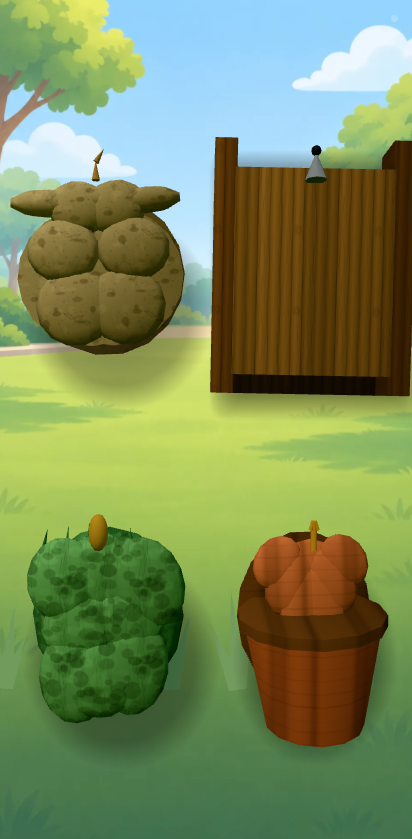
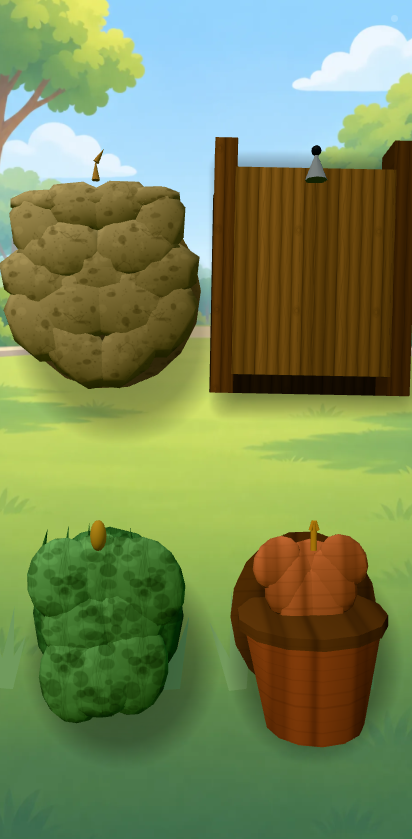
サイクル27: 岩の「塞ぐ板」をやめ、球を増やして隙間を埋める
判定が3回続けて「次に直すべき1件」に挙げたのが、岩の中にある平らな板。
球より奥にあるその板が、空を背に四角い面としてはっきり見えていた。
角丸にしても、楕円にしても、大きさを詰めても消えなかった
（詰めると今度は遮蔽が漏れる）。

**球の数で塞ぐことにした。** 3個 → 8個に増やして、隙間の位置に重ねる。
塞ぐものが球なら、はみ出しても岩に見える。
8個を1つのジオメトリに結合したので draw call はむしろ baseline より減った
（そと 65 → 59、きょうりゅう 59 → 53）。分割は (8,4) まで落とす
（(9,6) では三角形が baseline 比 +26% になり、上限 +10% を超えた）。

**このとき、単体テストが1件落ちていたのを見落としていたことも分かった。**
`npx vitest run | tail -3` では要約行が隠れる。サイクル16（岩の内側の板を
楕円にした回）から うみ の いわ で 8点の漏れが出ていた。
CLAUDE.md「球だけで隠れ場所を作ると必ず隙間ができる」を、
板ではなく球の数で解いたことで、漏れも同時に消えた。

npm run verify（型検査・単体254件・e2e 23件）すべて通過。
描画量は baseline 比 三角形 +8.7% 以内・draw call は増えていない。

Claude-Session: https://claude.ai/code/session_01CKSSptub2R8nw4GNxWzQ6d

diff --git a/src/peekaboo/SpotShapes.ts b/src/peekaboo/SpotShapes.ts
@@ -305,7 +305,14 @@ function fitBackPlates(shape: SpotShape, kind: SpotKind): void {
   // きのほら は幹の柱が H×2.0 あって、背板がその高さに合わせて伸び、
   // 板塀の上に黒いドームが乗って見えた（2026-09-07）
   const top = Math.min(_backBox.max.y, shape.coverTopY);
-  const wantW = _backBox.max.x - _backBox.min.x;
+  // **動物の幅を下限にする。**
+  // 見えている本体だけに合わせると、本体を細くしたときに背板まで縮んで、
+  // **隠れている動物が背板の左右からはみ出す**。
+  // 岩の庇を板から塊に替えて横幅を詰めたとき、うみ の いわ で
+  // 15×15 の格子のうち 8点から体が覗いた（2026-09-08 の実測）。
+  // 背板の役目は「後ろから透けないように塞ぐ」ことなので、
+  // 隠れる動物がいちばん広いときの幅（`mouthWidth`）を下回ってはいけない
+  const wantW = Math.max(_backBox.max.x - _backBox.min.x, shape.mouthWidth * 1.35);
   const wantH = Math.max(0.2, top - _backBox.min.y);
   const centerX = (_backBox.max.x + _backBox.min.x) / 2;
   const centerY = (top + _backBox.min.y) / 2;
@@ -851,68 +858,53 @@ function createRock(p: Palette, spotY: number, seed: number): SpotShape {
   const halves: THREE.Group[] = [];
   for (const side of [-1, 1]) {
     const half = new THREE.Group();
-    // ごつごつさせる。1個の球だと「たまご」に見えて岩にならない
+    // ==================================================================
+    // ごつごつさせる。1個の球だと「たまご」に見えて岩にならない。
+    //
+    // **塞ぐための板を置かない**（2026-09-08）。
+    // 球3個だと上下の球のあいだに菱形の隙間が残るので、以前は平らな板を
+    // 1枚重ねて塞いでいた。ところが球より奥にあるその板が、**空を背に
+    // 四角い面としてはっきり見え**、判定で5場面すべてに減点された。
+    // 角丸にしても、楕円にしても、大きさを詰めても消えなかった
+    // （詰めると今度は遮蔽が漏れる）。
+    //
+    // なので**球の数で塞ぐ**。3個 → 6個にして、隙間の位置に重ねる。
+    // 塞ぐものが球なら、はみ出しても岩に見える。
+    // 6個を1つのジオメトリに結合するので draw call は増えない。
+    // ==================================================================
     const blobs: [number, number, number, number, number][] = [
       [0, -H * 0.5, 0, 0.5, 0.62],
       [side * 0.1, -H * 0.06, 0.02, 0.46, 0.5],
       [side * -0.08, H * 0.28, -0.02, 0.4, 0.42],
+      // ここから下が「隙間を塞ぐ球」。**外側にも要る**
+      // （外側が足りないと、うみ の いわ の右の縁で 3点漏れた）
+      [side * 0.34, -H * 0.28, -0.01, 0.46, 0.5],
+      [side * -0.28, -H * 0.22, -0.01, 0.46, 0.5],
+      [0, -H * 0.85, -0.01, 0.48, 0.44],
+      [side * 0.4, -H * 0.62, -0.01, 0.44, 0.48],
+      [side * 0.36, H * 0.1, -0.01, 0.4, 0.44],
     ];
+    const parts: THREE.BufferGeometry[] = [];
+    const at = new THREE.Matrix4();
     for (let i = 0; i < blobs.length; i++) {
-      const b = new THREE.Mesh(new THREE.SphereGeometry(1, 10, 7), stone);
-      b.name = `rock.chunk.${side < 0 ? 'l' : 'r'}.${i}`;
-      b.scale.set(HALF_W * blobs[i][3], HALF_H * blobs[i][4], 0.15);
-      b.position.set(blobs[i][0], blobs[i][1], FRONT_Z + blobs[i][2]);
-      b.rotation.z = (i - 1) * 0.2 * side;
-      half.add(b);
+      // 分割は粗く。8個 × 2 で (9,6) にしたら三角形が baseline 比 +26% になった
+      // （上限 +10%）。重なった塊なので、(8,4) でも輪郭は荒れない
+      const geometry = new THREE.SphereGeometry(1, 8, 4).toNonIndexed();
+      at.makeRotationZ((i - 1) * 0.2 * side);
+      at.scale(_lumpScale.set(HALF_W * blobs[i][3] * 1.28, HALF_H * blobs[i][4], 0.15));
+      at.setPosition(blobs[i][0], blobs[i][1], FRONT_Z + blobs[i][2]);
+      geometry.applyMatrix4(at);
+      parts.push(geometry);
     }
-    // 内側の板。**球だけでは中央が塞げない。**
-    // 球は上下で横幅がすぼまるので、上下の球のあいだに菱形の隙間が残り、
-    // そこから体が覗いた（実測: 世界座標 x=1.15 / y=1.33 あたりで 4点）。
-    // 左右の板を中央で 0.72 ぶん重ねて、縁から下を隙間なく覆う。
-    // 開くときは半分と一緒に逃げるので、出てきた体は隠さない
-    // 幅は隠れ場所いっぱいまで取る。動物のいちばん広いところ（かに 1.22）が
-    // 板からはみ出して、外側の縁で覗けていた（局所 x = ±0.41〜0.49）。
-    // **開いても、この板は動物を隠さない。** 板の上端は局所 0.30 で、
-    // 出きった動物の足元（0.44 以上）より下にあるため
-    // **球より大きくしないこと**（2026-09-07）。
-    // W×1.1・H×1.1 にしていたら、背景の絵を入れたあとに
-    // **球の外側に灰色の長方形がはっきり見えた**。板は球より奥（z=0.17）に
-    // あるので、はみ出したぶんがそのまま空を背に出る。
-    // 覆う必要があるのは動物のいちばん広いところ（かに 1.22 ＝半幅 0.61）まで。
-    // 左右の板は中央へ 0.16 寄せてあるので、幅 W×0.78 で
-    // 局所 x = ±0.85 まで覆える（庇を岩の塊に置き換えたら、W×0.78 では
-    // 端が足りずに漏れた）。
-    // **高さは詰めないこと。** H×0.95 にしたら、絵を貼った うみ の いわ で
-    // 左右の縁の 5点（15×15 の格子）から体が覗いた（実測）
-    // **四角い板にしないこと**（2026-09-07）。球より奥（z=0.17）にあるので、
-    // はみ出した角がそのまま空を背に長方形として見える。
-    // 楕円にすると、丸い塊の裏に収まる（塞ぐ場所は中央なので、
-    // 角を落としても隙間はできない ——  遮蔽のテストが見張っている）
-    const slab = new THREE.Mesh(new THREE.CircleGeometry(0.5, 20), stone);
-    slab.name = `rock.slab.${side < 0 ? 'l' : 'r'}`;
-    slab.scale.set(W * 0.92, H * 1.1, 1);
-    slab.position.set(-side * 0.16, -H * 0.26, FRONT_Z - 0.05);
-    half.add(slab);
+    const chunks = new THREE.Mesh(mergeGeometries(parts), stone);
+    chunks.name = `rock.chunks.${side < 0 ? 'l' : 'r'}`;
+    half.add(chunks);
 
     half.position.x = (side * W) / 4 - side * 0.15;
     group.add(half);
     halves.push(half);
   }
 
-  // 庇（ひさし）。**動かない。**
-  //
-  // 球だけで作ると、縁のあたりで横幅がすぼまって中央に隙間ができ、
-  // そこから頭が覗いた（格子 225点で 4〜63点。いわを使う3場面すべてで出た）。
-  // 動く半分に平らな板を足しても、開いたときに一緒に逃げてしまい、
-  // 今度は出てきた体を隠してしまう。**縁のすぐ下だけを固定で覆う**のが正解。
-  // 上端は coverTopY ちょうど。ヒント（z = 0.36）はこの板より手前を通る
-  //
-  // **上端は「縁の高さ」ではなく「縁に見える高さ」に置く。**
-  // 上の段（y = +2.45）はカメラ（y = 0.3）より上にあるので見上げる形になり、
-  // 手前（z = 0.20）にある板の上端は、縁より高い位置に見える。
-  // 上端をちょうど縁に合わせた版では、出てきた動物の下半分が庇に隠れて
-  // 見えている割合が 53% まで落ちた（判定は 55%）。
-  // 見込み角ぶん（0.10）下げる
   //
   // ==========================================================================
   // **板をやめる**（2026-09-07）。

diff --git a/docs/visual-log.md b/docs/visual-log.md
@@ -53,6 +53,8 @@
 
 | 26 | 明るい背景の前の隠れ場所を暗く落とす（逆光）| 15 | 12 | **棄却** | 対象の3箇所は良くなるが、もともと足りていた箇所が背景に寄って全体では悪化 |
 
+| 27 | 岩の「塞ぐ板」をやめて、球を6→8個に増やして隙間を埋める | 12 | 10 | 採用 | 板は角丸にしても楕円にしても詰めても、空を背に面として見えた（詰めると遮蔽が漏れる）。**塞ぐものが球なら、はみ出しても岩に見える**。8個を1つのジオメトリに結合したので draw call はむしろ baseline より減った |
+
 ## 判定（`visual-judge`）の推移
 
 | 回 | 全体 | いちばん悪い場面 | 次に直すべき1件 |
